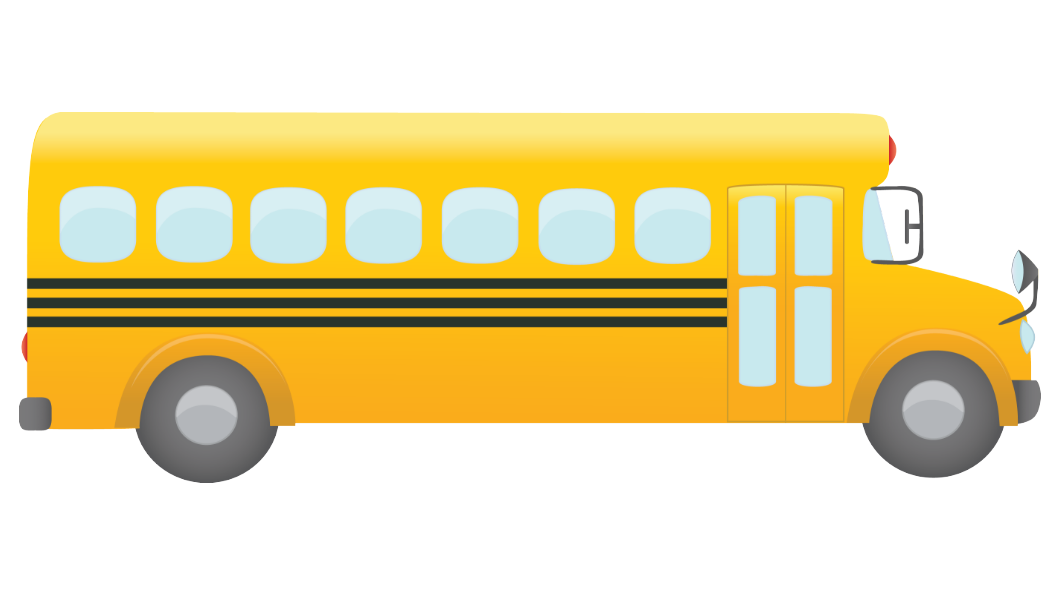
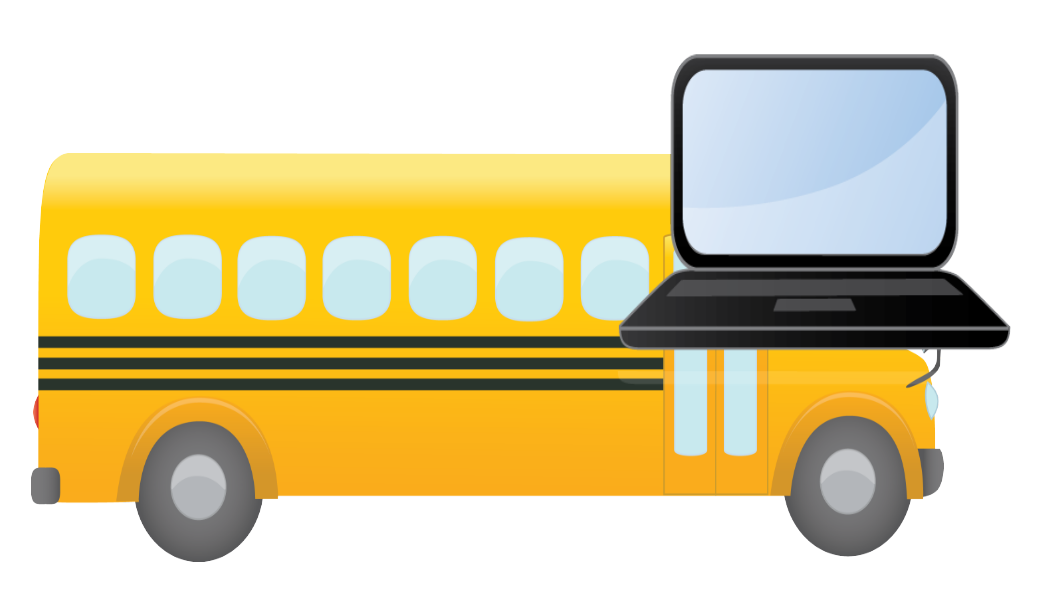
adjusted ToC and several graphics

diff --git a/src/otm-june-2-2021.tex b/src/otm-june-2-2021.tex
@@ -21,9 +21,13 @@
 %outline table of content for the entire presentation
 %use asterisk to indicate that this section shall not be part of the table
 %the name of the section serves as the title of the slide
-\begin{frame}{Inhalt}
-  \tableofcontents
-\end{frame}
+\AtBeginSection[]
+{
+    \begin{frame}
+        \frametitle{Inhalt}
+        \tableofcontents[currentsection]
+    \end{frame}
+}
 
 \section{Über mich}
 
@@ -57,5 +61,11 @@
 \input{dede/dede-integration.tex}
 
 \egroup
+
+\section*{Danke!}
+
+\begin{frame}{Danke!}
+  \center Fragen?
+\end{frame}
 
 \end{document}

diff --git a/src/otm-june-2-2021/pt-it-infrastruc.tex b/src/otm-june-2-2021/pt-it-infrastruc.tex
@@ -7,6 +7,6 @@
 \begin{frame}{Übersicht der IT-Infrastruktur im Öffentlichen Verkehr}
   %alternative alignment to center is left and right
   \begin{center}
-    \includegraphics[width=1.1\textwidth]{otm-june-2-2021/public-transport-05-04-2021.png}
+    \includegraphics[width=1.1\textwidth]{otm-june-2-2021/public-transport.png}
   \end{center}
 \end{frame}

diff --git a/src/otm-june-2-2021/pt-experience.tex b/src/otm-june-2-2021/pt-experience.tex
@@ -4,7 +4,7 @@
 % * SPDX-License-Identifier: GPL-3.0-or-later
 % */
 
-\begin{frame}{Board-Computer für Fahrzeuge}
+\begin{frame}{Bordrechner für Fahrzeuge}
   %alternative alignment to center is left and right
   \includegraphics[width=0.2\textwidth]{otm-june-2-2021/bus.png}
   \begin{itemize}
